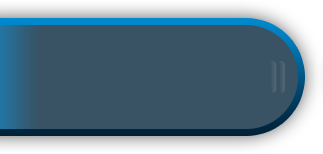
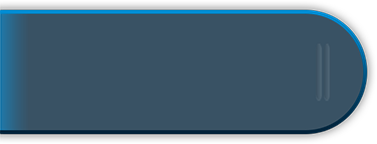
ג

Changed region(s): [[0.0, 0.0278, 0.9907, 0.9722]]

diff --git a/css/style.css b/css/style.css
@@ -568,23 +568,43 @@ header {
     background-image: url(../images/votes/slide_pick_left.png);
     background-size: 100% 100%;
     width: 49%;
-    height: 20%;
     background-repeat: no-repeat;
     position: absolute;
     left: -30%;
-    top: 50%;
+    bottom: 25%;
+    background-size: 100% 100%;
+    height: 18%;
 }
 
 .slideStay {
-    background-image: url(../images/votes/slide_pick_heart.png);
-    background-size: 19% 46%;
     width: 80%;
     height: 66%;
-    background-repeat: no-repeat;
-    left: 0;
+    left: -13%;
     top: 17%;
     position: absolute;
+}
+
+.slideStay {
+    position: relative;
+    overflow: hidden;
+}
+
+.slideStay:before {
+    content: "";
+    position: absolute;
+    width: 33%;
+    height: 76%;
+    top: 0;
+    right: 0;
+    background-image: url(../images/votes/slide_pick_heart.png);
+    background-size: 100% 100%;
+    background-repeat: no-repeat;
     background-position: right center;
+    -webkit-transform: rotate(90deg);
+    -moz-transform: rotate(90deg);
+    -ms-transform: rotate(90deg);
+    -o-transform: rotate(90deg);
+    transform: rotate(90deg);
 }
 
 .slideStay h1 {
@@ -602,19 +622,38 @@ header {
     background-repeat: no-repeat;
     position: absolute;
     right: -30%;
-    top: 50%;
+    bottom: 25%;
+    background-size: 100% 100%;
+    height: 18%;
 }
 
 .slideGo {
-    background-image: url(../images/votes/slide_pick_x.png);
-    background-size: 18% 46%;
     width: 80%;
     height: 66%;
-    background-repeat: no-repeat;
-    right: 0;
+    right: 5%;
     top: 17%;
+    position: relative;
+    overflow: hidden;
+}
+
+.slideGo:before {
+    content: "";
     position: absolute;
-    background-position: left center;
+    width: 26%;
+    height: 75%;
+    top: 0;
+    left: 0;
+    background-image: url(../images/votes/slide_pick_x.png);
+    background-size: 100% 100%;
+    background-repeat: no-repeat;
+    background-position: right center;
+    -webkit-transform: rotate(-90deg);
+    -moz-transform: rotate(-90deg);
+    -ms-transform: rotate(-90deg);
+    -o-transform: rotate(-90deg);
+    transform: rotate(-90deg);
+}
+
 }
 
 .slideGo h1 {
@@ -1107,42 +1146,42 @@ header {
     height: 100%;
     position: relative;
 }
-#download-music{
+
+#download-music {
     width: 83%;
     height: 9.3%;
     text-align: center;
-    
-    
-background: -moz-linear-gradient(top, #2183b7 0%, #2989d8 50%, #207cca 50%, #005987 100%, #005987 100%); /* FF3.6+ */
-background: -webkit-gradient(linear, left top, left bottom, color-stop(0%,#2183b7), color-stop(50%,#2989d8), color-stop(50%,#207cca), color-stop(100%,#005987), color-stop(100%,#005987)); /* Chrome,Safari4+ */
-background: -webkit-linear-gradient(top, #2183b7 0%,#2989d8 50%,#207cca 50%,#005987 100%,#005987 100%); /* Chrome10+,Safari5.1+ */
-background: -o-linear-gradient(top, #2183b7 0%,#2989d8 50%,#207cca 50%,#005987 100%,#005987 100%); /* Opera 11.10+ */
-background: -ms-linear-gradient(top, #2183b7 0%,#2989d8 50%,#207cca 50%,#005987 100%,#005987 100%); /* IE10+ */
-background: linear-gradient(to bottom, #2183b7 0%,#2989d8 50%,#207cca 50%,#005987 100%,#005987 100%); /* W3C */
-
+    background: -moz-linear-gradient(top, #2183b7 0%, #2989d8 50%, #207cca 50%, #005987 100%, #005987 100%); /* FF3.6+ */
+    background: -webkit-gradient(linear, left top, left bottom, color-stop(0%,#2183b7), color-stop(50%,#2989d8), color-stop(50%,#207cca), color-stop(100%,#005987), color-stop(100%,#005987)); /* Chrome,Safari4+ */
+    background: -webkit-linear-gradient(top, #2183b7 0%,#2989d8 50%,#207cca 50%,#005987 100%,#005987 100%); /* Chrome10+,Safari5.1+ */
+    background: -o-linear-gradient(top, #2183b7 0%,#2989d8 50%,#207cca 50%,#005987 100%,#005987 100%); /* Opera 11.10+ */
+    background: -ms-linear-gradient(top, #2183b7 0%,#2989d8 50%,#207cca 50%,#005987 100%,#005987 100%); /* IE10+ */
+    background: linear-gradient(to bottom, #2183b7 0%,#2989d8 50%,#207cca 50%,#005987 100%,#005987 100%); /* W3C */
     border: 1px solid #000000;
-margin: auto;
-border-radius: 3px;
-margin-top: 1.8%;
-position: relative;
+    margin: auto;
+    border-radius: 3px;
+    margin-top: 1.8%;
+    position: relative;
 }
-#download-music #icon{
+
+#download-music #icon {
     background-image: url(../images/gallery/kohav_iphone_vert17.png);
-background-repeat: no-repeat;
-width: 9.3%;
-height: 100%;
-display: inline-block;
-position: absolute;
-right: 0;
-background-position: center;
-background-size: 100% 71%;
-border-left: 1px solid #196085;
-background-color: rgba(0, 0, 0,0.1);
+    background-repeat: no-repeat;
+    width: 9.3%;
+    height: 100%;
+    display: inline-block;
+    position: absolute;
+    right: 0;
+    background-position: center;
+    background-size: 100% 71%;
+    border-left: 1px solid #196085;
+    background-color: rgba(0, 0, 0,0.1);
 }
+
 }
-#download-music-text{
+
+#download-music-text {
     font-size: 2em;
-    
     display: inline-block;
 }
 

diff --git a/css/small.css b/css/small.css
@@ -75,11 +75,11 @@ section {
 }
 
 .slideStay {
-    top: 24%;
+    top: 26%;
 }
 
 .slideGo {
-    top: 24%;
+    top: 26%;
 }
 
 .slideStay h1 {
